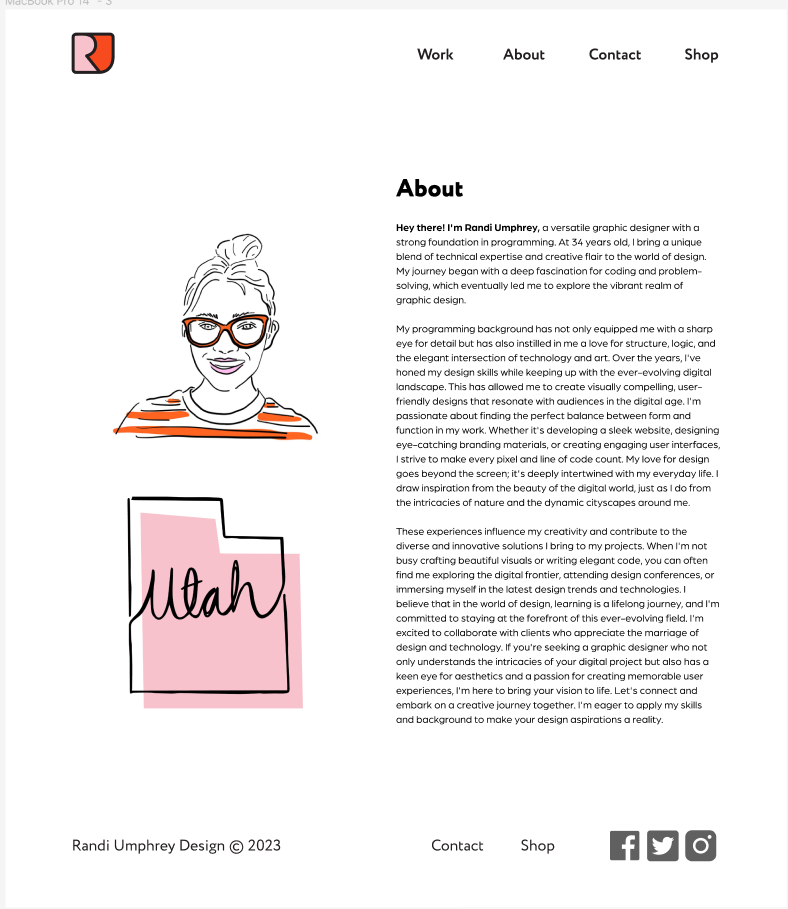
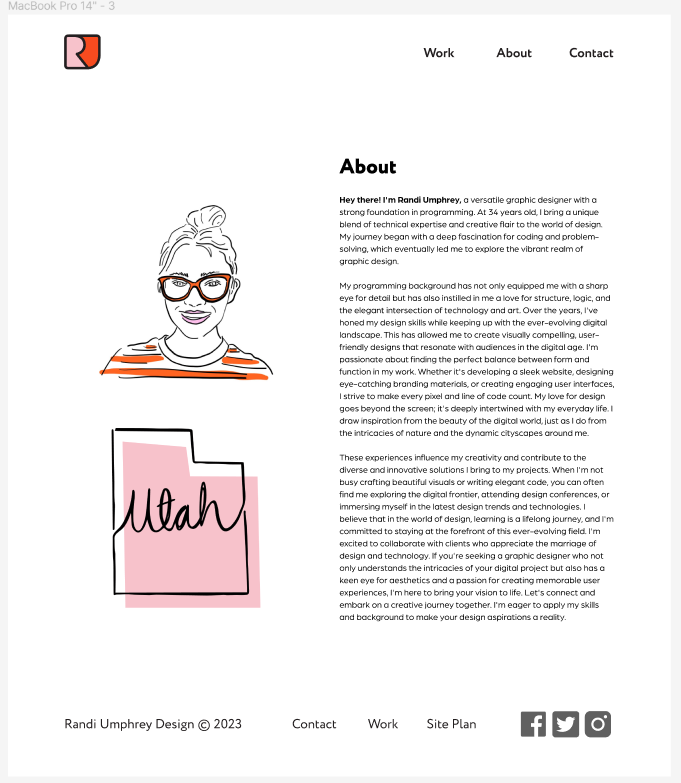
Added css to index.html page

diff --git a/portfoliosite/index.html b/portfoliosite/index.html
@@ -4,6 +4,7 @@
     <meta charset="UTF-8">
     <meta name="viewport" content="width=device-width, initial-scale=1.0">
     <title>Randi Umphrey Design</title>
+    <link rel="stylesheet" href="styles/style.css">
 </head>
 <body>
     <header>
@@ -14,79 +15,82 @@
             <a href="index.html">Work</a>
             <a href="about.html">About</a>
             <a href="contact.html">Contact</a>
-            <a href="#">Shop</a>
         </nav>
     </header>
     <main>
-        <section>
-            <div>
+        <section class="introduction">
+            <div id="hello-banner">
                 <img src="images/hello.png" alt="Hello">
             </div>
-            <article>
-                <p>
+            <article class="intro-statement">
+                <p id="first-intro-statement">
                     <b>Welcome to Randi Umphrey Design!</b> Here, I invite you to step into a world where design comes to life and creativity knows no bounds. This gallery is a showcase of my passion for graphic design, a canvas where I've brought imagination, artistry, and innovation together to create captivating visuals. As a freelance graphic designer, I've had the privilege of working on a wide array of projects. From branding and logo design that breathes life into businesses, to web design that beckons users to explore, and everything in between, this gallery is a testament to my dedication to the craft. Every piece featured here is more than pixels and lines; it's a reflection of the countless hours, the creative spark, and the meticulous attention to detail that I pour into my work. 
                 </p>
-                <p>
+                <p id="second-intro-statement">
                     These designs are more than visuals; they are a representation of the ideas, concepts, and messages that drive my clients' dreams. Whether you're in search of inspiration for your own projects, looking to collaborate on a creative endeavor, or simply here to admire the art of graphic design, this gallery is your gateway to a world of possibilities. 
                     I hope you find delight, inspiration, and a fresh perspective within these digital walls. Feel free to explore each piece at your own pace, and don't hesitate to reach out if you'd like to discuss a project, inquire about my process, or simply have a chat about the wonderful world of design. Thank you for visiting my gallery, and I hope you enjoy this visual journey through my creative endeavors. 
                 </p>
             </article>
         </section>
-        <section>
-            <div>
-                <img src="images/display1.jpg" alt="artwork">
-            </div>
-            <div>
-                <img src="images/display2.jpg" alt="artwork">
-            </div>
-            <div>
-                <img src="images/display3.jpg" alt="artwork">
-            </div>
-            <div>
-                <img src="images/display4.jpg" alt="artwork">
-            </div>
-            <div>
-                <img src="images/display5.jpg" alt="artwork">
-            </div>
-            <div>
-                <img src="images/display6.jpg" alt="artwork">
-            </div>
-            <div>
-                <img src="images/display7.jpg" alt="artwork">
-            </div>
-            <div>
-                <img src="images/display8.jpg" alt="artwork">
-            </div>
-            <div>
-                <img src="images/display9.jpg" alt="artwork">
-            </div>
-            <div>
-                <img src="images/display10.jpg" alt="artwork">
-            </div>
-            <div>
-                <img src="images/display12.jpg" alt="artwork">
-            </div>
-            <div>
-                <img src="images/display11.jpg" alt="artwork">
+        <section class="portfolio-display">
+            <div class="padding-for-images">
+                <div>
+                    <img src="images/display1.jpg" alt="artwork">
+                </div>
+                <div>
+                    <img src="images/display2.jpg" alt="artwork">
+                </div>
+                <div>
+                    <img src="images/display3.jpg" alt="artwork">
+                </div>
+                <div>
+                    <img src="images/display4.jpg" alt="artwork">
+                </div>
+                <div>
+                    <img src="images/display5.jpg" alt="artwork">
+                </div>
+                <div>
+                    <img src="images/display6.jpg" alt="artwork">
+                </div>
+                <div>
+                    <img src="images/display7.jpg" alt="artwork">
+                </div>
+                <div>
+                    <img src="images/display8.jpg" alt="artwork">
+                </div>
+                <div>
+                    <img src="images/display9.jpg" alt="artwork">
+                </div>
+                <div>
+                    <img src="images/display10.jpg" alt="artwork">
+                </div>
+                <div>
+                    <img src="images/display12.jpg" alt="artwork">
+                </div>
+                <div>
+                    <img src="images/display11.jpg" alt="artwork">
+                </div>
             </div>
         </section>
     </main>
     <footer>
         <p>Randi Umphrey Design &copy; 2023</p>
-            <p><a href="contact.html">Contact</a></p>
-            <p><a href="#">Shop</a></p>
-            <p><a href="https://randiu.github.io/wdd130/portfoliosite/site-plan.html">Site Plan</a></p>
-            <div class="social">
-                <a href="https://facebook.com" target="_blank">
-                    <img src="images/facebook-14.jpg" alt="fb icon">
-                </a>
-                <a href="https://twitter.com" target="_blank">
-                    <img src="images/twitter-15.jpg" alt="twitter icon">
-                </a>
-                <a href="https://instagram.com" target="_blank">
-                    <img src="images/instagram-16.jpg" alt="instagram icon">
-                </a>
-            </div>
+        <div class="footer-nav">
+            <a href="contact.html">Contact</a>
+            <a href="index.html">Work</a>
+            <a href="https://randiu.github.io/wdd130/portfoliosite/site-plan.html">Site Plan</a>
+        </div> 
+        <div class="social">
+            <a href="https://facebook.com" target="_blank">
+                <img src="images/facebook-14.jpg" alt="fb icon">
+            </a>
+            <a href="https://twitter.com" target="_blank">
+                <img src="images/twitter-15.jpg" alt="twitter icon">
+            </a>
+            <a href="https://instagram.com" target="_blank">
+                <img src="images/instagram-16.jpg" alt="instagram icon">
+            </a>
+        </div>
     </footer>
 </body>
 </html>

diff --git a/portfoliosite/styles/style.css b/portfoliosite/styles/style.css
@@ -1,0 +1,119 @@
+@import url('https://use.typekit.net/wji6qip.css');
+
+body {
+    font-family: arboria, Helvetica, sans-serif;
+    font-size: 20px;
+}
+
+header {
+    display: grid;
+    grid-template-columns: repeat(12, 1fr);
+}
+
+
+#logo_link {
+    grid-column: 2/4;
+}
+.logo {
+    width: 65px;
+    padding-top: 5%;
+}
+
+nav {
+    display: flex;
+    justify-content: space-around;
+    grid-column: 9/12;
+    margin-top: 10%;
+    font-family: circe, Helvetica, sans-serif;
+    padding-right: 3%;
+    
+}
+
+nav a {
+    text-decoration: none;
+    color: #231F20;
+}
+
+.introduction {
+    grid-template-columns: repeat(12, 1fr);
+}
+
+#hello-banner {
+    text-align: center;
+    padding: 7%;
+}
+
+#hello-banner img {
+    width: 350px;
+}
+
+.intro-statement {
+    display: grid;
+    grid-template-columns: repeat(12, 1fr);
+}
+
+#first-intro-statement {
+    grid-column: 2/7;
+    margin-right: 5%;
+}
+
+#second-intro-statement {
+    grid-column: 7/12;
+    margin-left: 5%;
+}
+
+.portfolio-display {
+    display: grid;
+    grid-template-columns: repeat(12, 1fr);
+}
+
+.padding-for-images {
+    display: grid;
+    grid-template-columns: repeat(12, 1fr);
+    grid-column: 2/12;
+    margin: 7.5% 0 7.5% 0;
+}
+
+.padding-for-images div {
+    grid-column: span 3;
+    margin: 2.5%;
+}
+
+.portfolio-display div img {
+    width: 100%;
+}
+
+
+footer {
+    display: grid;
+    grid-template-columns: repeat(12, 1fr);
+    margin-bottom: 2.5%;
+}
+
+footer p {
+    grid-column: 2/5;
+    margin: 0;
+}
+
+.footer-nav {
+    grid-column: 6/8;
+    display: flex;
+    justify-content: space-around;
+}
+
+.footer-nav a {
+    text-decoration: none;
+    color:#231F20;
+    
+}
+
+.social {
+    grid-column: 10/12;
+    display: flex;
+    justify-content: space-around;
+}
+
+.social img {
+    width: 50px;
+}
+

diff --git a/portfoliosite/about.html b/portfoliosite/about.html
@@ -14,7 +14,6 @@
             <a href="index.html">Work</a>
             <a href="about.html">About</a>
             <a href="contact.html">Contact</a>
-            <a href="#">Shop</a>
         </nav>
     </header>
     <main>
@@ -43,7 +42,7 @@
     <footer>
         <p>Randi Umphrey Design &copy; 2023</p>
             <p><a href="contact.html">Contact</a></p>
-            <p><a href="#">Shop</a></p>
+            <p><a href="index.html">Work</a></p>
             <p><a href="https://randiu.github.io/wdd130/portfoliosite/site-plan.html">Site Plan</a></p>
             <div class="social">
                 <a href="https://facebook.com" target="_blank">

diff --git a/portfoliosite/contact.html b/portfoliosite/contact.html
@@ -14,7 +14,6 @@
             <a href="index.html">Work</a>
             <a href="about.html">About</a>
             <a href="contact.html">Contact</a>
-            <a href="#">Shop</a>
         </nav>
     </header>
     <main>
@@ -59,7 +58,7 @@
     <footer>
         <p>Randi Umphrey Design &copy; 2023</p>
             <p><a href="contact.html">Contact</a></p>
-            <p><a href="#">Shop</a></p>
+            <p><a href="index.html">Work</a></p>
             <p><a href="https://randiu.github.io/wdd130/portfoliosite/site-plan.html">Site Plan</a></p>
             <div class="social">
                 <a href="https://facebook.com" target="_blank">
